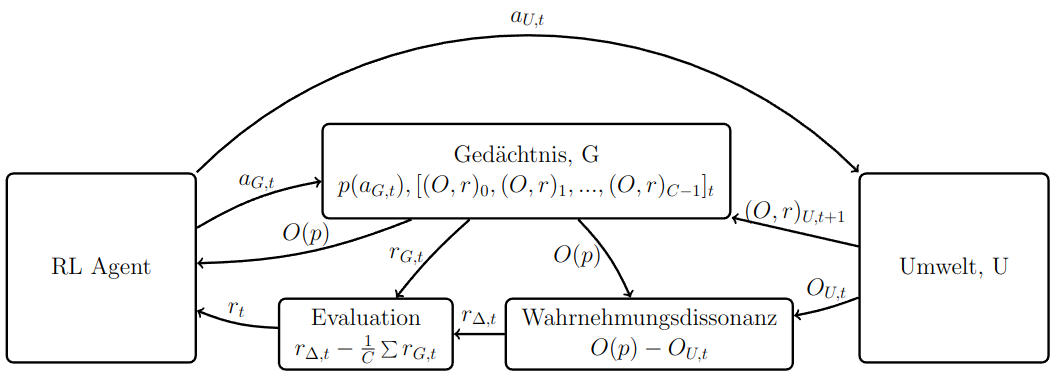
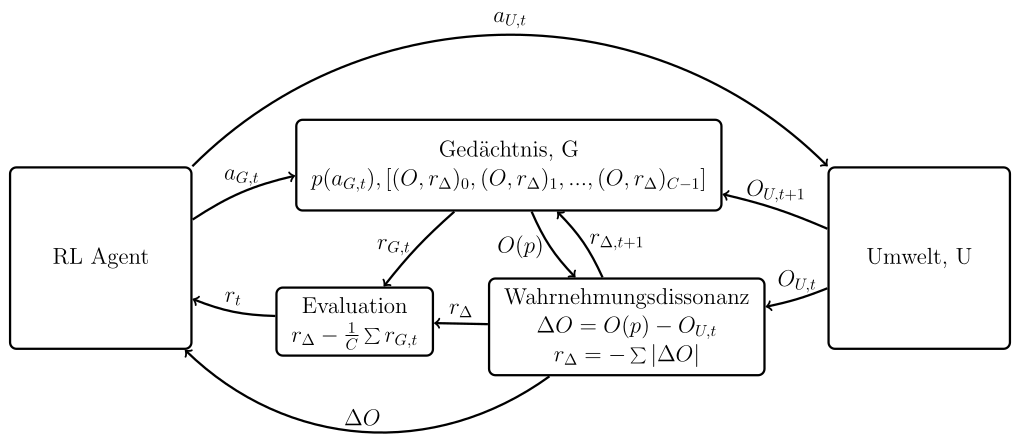
docs: Fixed bugs in architecture docs

diff --git a/docs/architecture.tex b/docs/architecture.tex
@@ -13,24 +13,25 @@
   % Nodes 
   \node (agent) [minimum width=4cm, minimum height=4cm, rounded corners] {RL Agent};
   \node (memory) [above=-1cm of agent, xshift=9cm, minimum width=6cm, minimum height=2cm, rounded corners]  {
-    \begin{tabular}{c} Gedächtnis, G \\ $p(a_{G,t}), [(O, r)_0, (O, r)_1, ..., (O, r)_{C-1}]_{t}$ \end{tabular}
+    \begin{tabular}{c} Gedächtnis, G \\ $p(a_{G,t}), [(O, r_{\Delta})_0, (O, r_{\Delta})_1, ..., (O, r_{\Delta})_{C-1}]$ \end{tabular}
   };
   \node (world) [right=14cm of agent, minimum width=4cm, minimum height=4cm, rounded corners] {Umwelt, U};
   \node (evaluator) [rectangle, below=-1.4cm of agent, xshift=5.6cm, rounded corners] {
-    \begin{tabular}{c}  Evaluation \\ $r_{\Delta, t} - \frac{1}{C}\sum{r_{G, t}}$ \end{tabular}
+    \begin{tabular}{c}  Evaluation \\ $r_{\Delta} - \frac{1}{C}\sum{r_{G, t}}$ \end{tabular}
   };
-  \node (calculator) [rectangle, below=-1.4cm of agent, xshift=11.6cm, rounded corners] {
-    \begin{tabular}{c} Wahrnehmungsdissonanz \\ $O(p)-O_{U, t}$ \end{tabular}
+  \node (calculator) [rectangle, below=-1.6cm of agent, xshift=11.6cm, rounded corners] {
+    \begin{tabular}{c} Wahrnehmungsdissonanz \\ $\Delta O = O(p)-O_{U, t}$ \\ $ r_{\Delta} = -\sum |\Delta O| $ \end{tabular}
   };
 
-  \draw[->] (memory) to[bend left=10] node[midway, above, draw=none, fill=none] {$O(p)$} (agent);
+  \draw[->] (calculator) to[bend left=40] node[midway, above, draw=none, fill=none] {$\Delta O$} (agent);
   \draw[->] (memory) to[bend right=5] node[midway, left, draw=none, fill=none] {$r_{G, t}$} (evaluator);
   \draw[->] (world) to[bend left=5] node[midway, above, draw=none, fill=none] {$O_{U, t}$} (calculator);
-  \draw[->] (memory) to[bend left=10] node[midway, left, draw=none, fill=none] {$O(p)$} (calculator);
-  \draw[->] (calculator) to[bend left=0] node[midway, above, draw=none, fill=none] {$r_{\Delta, t}$} (evaluator);
+  \draw[->] (memory) to[bend right=10] node[midway, left, draw=none, fill=none] {$O(p)$} (calculator);
+  \draw[->] (calculator) to[bend left=0] node[midway, above, draw=none, fill=none] {$r_{\Delta}$} (evaluator);
+  \draw[->] (calculator) to[bend right=10] node[midway, right, draw=none, fill=none] {$r_{\Delta, t + 1}$} (memory);
   \draw[->] (agent) to[bend left=10] node[midway, above, draw=none, fill=none] {$a_{G, t}$} (memory);
   \draw[->] (agent) to[bend left=45] node[midway, above, draw=none, fill=none] {$a_{U, t}$} (world);
-  \draw[->] (world) to[bend left=0] node[midway, above, draw=none, fill=none] {$(O, r)_{U, t+1}$} (memory);
+  \draw[->] (world) to[bend right=5] node[midway, above, draw=none, fill=none] {$O_{U, t+1}$} (memory);
   \draw[->] (evaluator) to[bend left=10] node[midway, above, draw=none, fill=none] {$r_t$} (agent);
 \end{tikzpicture}
 \end{document}

diff --git a/README.md b/README.md
@@ -1,9 +1,13 @@
-# Self evaluating estimator network
+# Self evaluating estimator (SEE)
+
+## Info
 
 This project is intended to serve as a mindgame and does not aim to be a useful architecture in a practical way.
 
-## Idea
+## Ideas
 
-Build a system which can compute rewards for an reinforcement learning agent based on the difference between an agents past observation and world observations.
+1. Build a system which can compute rewards for an reinforcement learning agent based on the difference between an agents past observation and current observations.
+2. The agent shall observe only the difference between a self chosen observation from its memory and the observation from the environment.
+3. Optimize observation selection and the policy function such that the two goals complement and self regulate each other.
 
 ![Self Evaluating Estimator Network](docs/images/SEE.png)
